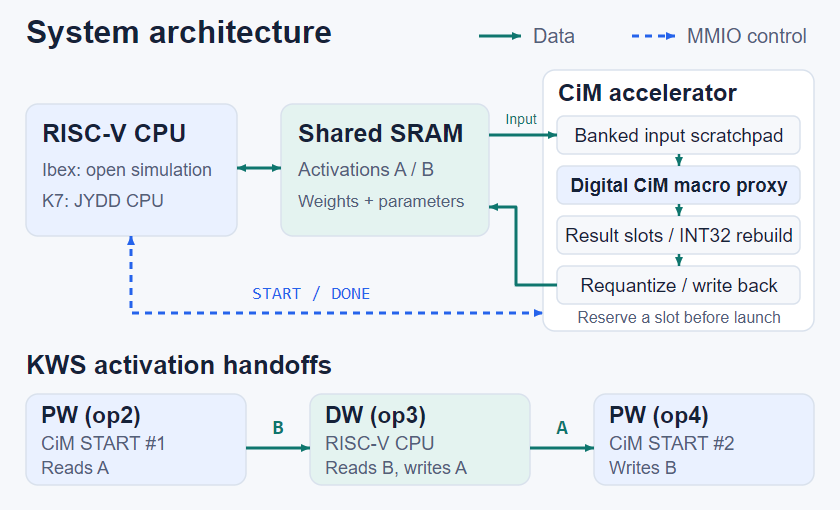
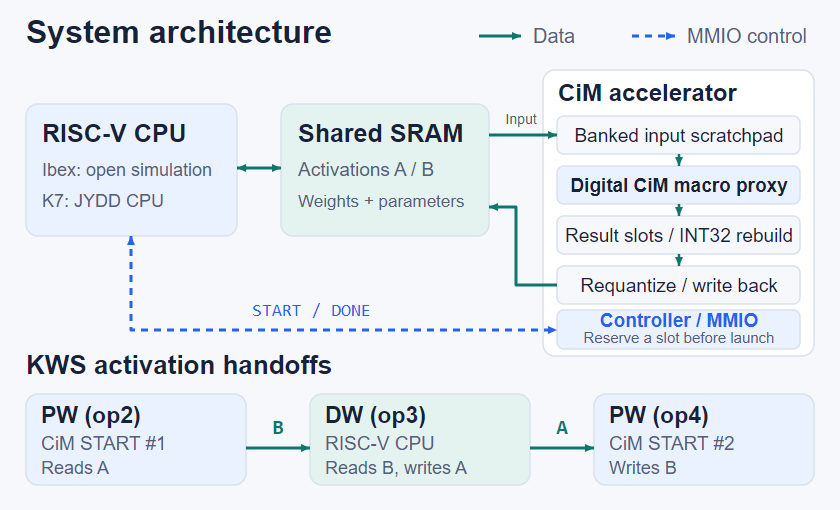
Improve narrow-screen showcase and stable quick start

Changed region(s): [[0.65, 0.5882, 0.9595, 0.6765], [0.1548, 0.5588, 0.65, 0.6471]]

diff --git a/docs/assets/generate.py b/docs/assets/generate.py
@@ -84,9 +84,18 @@ def hero():
     return fig
 
 
+def hero_narrow():
+    fig = Figure(640, 160, "Low-bit compute measured on FPGA",
+                 "Compact banner with the same two lines as the desktop version.")
+    fig.rect(2, 2, 636, 156, INK, "#415069", 19)
+    fig.text(320, 68, "Low-bit compute.", 43, WHITE, 700, anchor="middle")
+    fig.text(320, 123, "Measured on FPGA.", 43, PALE_TEAL, 700, anchor="middle")
+    return fig
+
+
 def architecture():
     fig = Figure(840, 510, "RISC-V CiM system and KWS handoffs",
-                 "RISC-V controls the accelerator over MMIO. CPU depthwise runs between two "
+                 "RISC-V writes START and reads DONE through the controller MMIO interface. CPU depthwise runs between two "
                  "independently submitted pointwise tasks and exchanges tensors through shared SRAM.")
     fig.text(26, 43, "System architecture", 32, weight=700)
     fig.line([(479, 36), (521, 36)], TEAL, 3, arrow=True)
@@ -104,7 +113,7 @@ def architecture():
     fig.text(298, 207, "Weights + parameters", 17, MUTED)
     fig.line([(237, 168), (281, 168)], TEAL, 3, arrow=True, both=True)
 
-    fig.rect(543, 70, 271, 261)
+    fig.rect(543, 70, 271, 286)
     fig.text(558, 101, "CiM accelerator", 24, weight=700)
     stages = [(116, "Banked input scratchpad"), (166, "Digital CiM macro proxy"),
               (216, "Result slots / INT32 rebuild"), (266, "Requantize / write back")]
@@ -116,9 +125,11 @@ def architecture():
     fig.line([(489, 135), (557, 135)], TEAL, 3, arrow=True)
     fig.text(521, 124, "Input", 14, TEAL, anchor="middle")
     fig.line([(557, 285), (516, 285), (516, 207), (489, 207)], TEAL, 3, arrow=True)
-    fig.line([(131, 236), (131, 313), (543, 313)], BLUE, 3, dashed=True, arrow=True, both=True)
-    fig.text(252, 299, "START / DONE", 18, BLUE, mono=True)
-    fig.text(679, 323, "Reserve a slot before launch", 16, MUTED, anchor="middle")
+    fig.rect(557, 310, 243, 39, BLUE_BG, radius=7)
+    fig.text(679, 327, "Controller / MMIO", 19, BLUE, 700, anchor="middle")
+    fig.text(679, 343, "Reserve a slot before launch", 15, MUTED, anchor="middle")
+    fig.line([(131, 236), (131, 330), (557, 330)], BLUE, 3, dashed=True, arrow=True, both=True)
+    fig.text(252, 316, "START / DONE", 18, BLUE, mono=True)
 
     fig.text(26, 374, "KWS activation handoffs", 26, weight=700)
     for x, label, detail, extra, fill in [
@@ -183,11 +194,11 @@ def uart_replay(rows):
     fields = ("total_cycles", "pw1_cycles", "dw_cycles", "pw2_cycles", "pw1_core_cycles",
               "pw2_core_cycles", "mismatches")
 
-    fig = Figure(660, 339, "Recorded UART log replay",
+    fig = Figure(660, 339, "Archived K7 results",
                  "Four decoded K7 board timings from the archived UART transcript.")
     fig.rect(2, 2, 656, 335, INK, "#415069", 15)
-    fig.text(25, 43, "Recorded UART log replay", 33, WHITE, 700)
-    fig.text(26, 74, "Kintex-7 · 50 MHz · 2026-11-07", 23, PALE_BLUE)
+    fig.text(25, 43, "Archived K7 results", 33, WHITE, 700)
+    fig.text(26, 74, "Decoded from recorded UART · 50 MHz · 2026-11-07", 23, PALE_BLUE)
     fig.line([(26, 94), (634, 94)], "#536582", 1.5)
     for x, label, anchor in [(27, "INPUT", "start"), (141, "MODE", "start"),
                              (438, "CYCLES", "end"), (632, "ms", "end")]:
@@ -241,7 +252,7 @@ def main():
     from playwright.sync_api import sync_playwright
 
     rows = board_rows()
-    figures = [("hero", hero()), ("architecture", architecture()),
+    figures = [("hero", hero()), ("hero-narrow", hero_narrow()), ("architecture", architecture()),
                ("k7_subgraph_latency", latency(rows)), ("uart-replay", uart_replay(rows)),
                ("social-preview", social(rows))]
     with sync_playwright() as pw:

diff --git a/README.md b/README.md
@@ -1,6 +1,9 @@
 # RISC-V CiM Accelerator
 
-![Low-bit compute measured on FPGA, with a digital CiM macro proxy between a banked scratchpad and INT8 writeback](docs/assets/hero.svg)
+<picture>
+  <source media="(max-width: 600px)" srcset="docs/assets/hero-narrow.svg">
+  <img src="docs/assets/hero.svg" alt="Low-bit compute. Measured on FPGA.">
+</picture>
 
 RISC-V-controlled INT8 acceleration with a digital CiM macro proxy, open Ibex simulation, and Kintex-7 measurements.
 
@@ -16,9 +19,17 @@ The measured KWS subgraph runs pointwise (PW) → CPU depthwise (DW) → pointwi
 
 ## Quick Start
 
-Install the [open toolchain](docs/REPRODUCE.md#quick-start-with-the-open-cpu) on Ubuntu or WSL and run from the repository root.
+Reproduce the stable v0.4.0 functionality on Ubuntu 24.04 or WSL with Ubuntu 24.04. The latest showcase documentation is on [main](https://github.com/zlsjtj/riscv-cim-accelerator/tree/main).
 
 ~~~bash
+sudo apt-get update
+sudo apt-get install -y git verilator gcc-riscv64-unknown-elf g++ make libelf-dev python3-venv
+
+git clone --branch v0.4.0 --single-branch https://github.com/zlsjtj/riscv-cim-accelerator.git
+cd riscv-cim-accelerator
+python3 -m venv .venv
+source .venv/bin/activate
+python3 -m pip install -r tools/requirements-ibex.txt
 python3 tools/run_ibex.py
 ~~~
 
@@ -43,15 +54,15 @@ The timer runs from restored input to the final output word becoming readable. I
 
 ## Architecture
 
-![The RISC-V CPU exchanges data with shared SRAM and controls the accelerator over MMIO. Two independent accelerator starts bracket CPU depthwise convolution.](docs/assets/architecture.svg)
+![The RISC-V CPU exchanges data with shared SRAM and writes START and reads DONE through the controller's MMIO interface. Two independent accelerator starts bracket CPU depthwise convolution.](docs/assets/architecture.svg)
 
 [Five-minute design walkthrough](docs/DESIGN_TALK.en.md) · [Detailed RTL architecture (中文)](docs/ARCHITECTURE.md)
 
 ## Demo
 
-<a href="docs/DEMO.md"><img src="docs/assets/uart-replay.png" width="600" alt="Recorded K7 UART replay showing Stop and Left in both execution modes, with the archived CIM_PASS line"></a>
+<a href="docs/DEMO.md"><img src="docs/assets/uart-replay.png" width="600" alt="Archived K7 results decoded from recorded UART, with four timings and the original CIM_PASS line"></a>
 
-The preview decodes four runs from the recorded K7 50 MHz UART log. [Replay command and original transcript](docs/DEMO.md)
+Static summary of four archived K7 runs, decoded from the recorded 50 MHz UART log. [Replay command and original transcript](docs/DEMO.md)
 
 ## Reproduce the KWS Subgraph
 

diff --git a/docs/DEMO.md b/docs/DEMO.md
@@ -1,8 +1,8 @@
 # Recorded UART log replay
 
-![Recorded K7 UART log replay for Stop and Left, showing both paths, four decoded timings and the original CIM_PASS line](assets/uart-replay.png)
+![Archived K7 results for Stop and Left, showing four timings decoded from recorded UART and the original CIM_PASS line](assets/uart-replay.png)
 
-The preview decodes four `KWS_RESULT` records from the K7 board run on
+The static summary decodes four `KWS_RESULT` records from the K7 board run on
 2026-11-07 at 50 MHz. Hybrid and scalar RV32IM C ran on bitstream `43494d4a`
 with one firmware. The final `CIM_PASS` line is from the recorded firmware.
 [Original UART transcript](evidence/kws_subgraph/k7_board_uart.txt) · [Decoded evidence](evidence/kws_subgraph/k7_board.json)
@@ -22,7 +22,7 @@ cat docs/evidence/kws_subgraph/k7_board_uart.txt
 | Left | Scalar RV32IM C | 6,384,683 | 127.69366 |
 
 The timed paths each checked 8,000 final bytes. The host checked all
-96,000 captured bytes in the separate diagnostic run. The replay image
+96,000 captured bytes in the separate diagnostic run. The preview
 is generated from the UART and JSON records. [Figure generator](assets/generate.py)
 
 For a live run, use the [open Ibex smoke test](REPRODUCE.md#quick-start-with-the-open-cpu)

diff --git a/docs/REPRODUCE.md b/docs/REPRODUCE.md
@@ -1,14 +1,17 @@
 # Reproduce the project
 
-Use the [v0.4.0 stable checkout](https://github.com/zlsjtj/riscv-cim-accelerator/tree/v0.4.0).
+Use the [v0.4.0 stable checkout](https://github.com/zlsjtj/riscv-cim-accelerator/tree/v0.4.0) to reproduce the released functionality. The latest showcase documentation is on [main](../README.md).
 
 ## Quick start with the open CPU
 
-On Ubuntu 24.04 or WSL with Ubuntu 24.04, install the public toolchain and run the smoke test from the repository root.
+On Ubuntu 24.04 or WSL with Ubuntu 24.04, run the following commands from a directory where you want to clone the project.
 
 ~~~bash
 sudo apt-get update
 sudo apt-get install -y git verilator gcc-riscv64-unknown-elf g++ make libelf-dev python3-venv
+
+git clone --branch v0.4.0 --single-branch https://github.com/zlsjtj/riscv-cim-accelerator.git
+cd riscv-cim-accelerator
 python3 -m venv .venv
 source .venv/bin/activate
 python3 -m pip install -r tools/requirements-ibex.txt

diff --git a/docs/STATUS.md b/docs/STATUS.md
@@ -5,7 +5,7 @@
 [GitHub Release](https://github.com/zlsjtj/riscv-cim-accelerator/releases/tag/v0.4.0) ·
 [英文首页](../README.md) · [中文首页](../README.zh-CN.md) · [复现入口](REPRODUCE.md)
 
-首页展示包含简版架构与性能图、真实串口归档回放和双语讲解入口。
+main 首页包含窄屏横幅、架构与性能图、UART 归档摘要和双语讲解入口。功能复现使用 v0.4.0。
 [UART 回放](DEMO.md) · [英文设计讲解](DESIGN_TALK.en.md) · [中文设计讲解](DESIGN_TALK.md)
 
 真实 KWS 子图使用固定 INT8 模型的 PW(op2) → CPU DW(op3) → PW(op4)。
